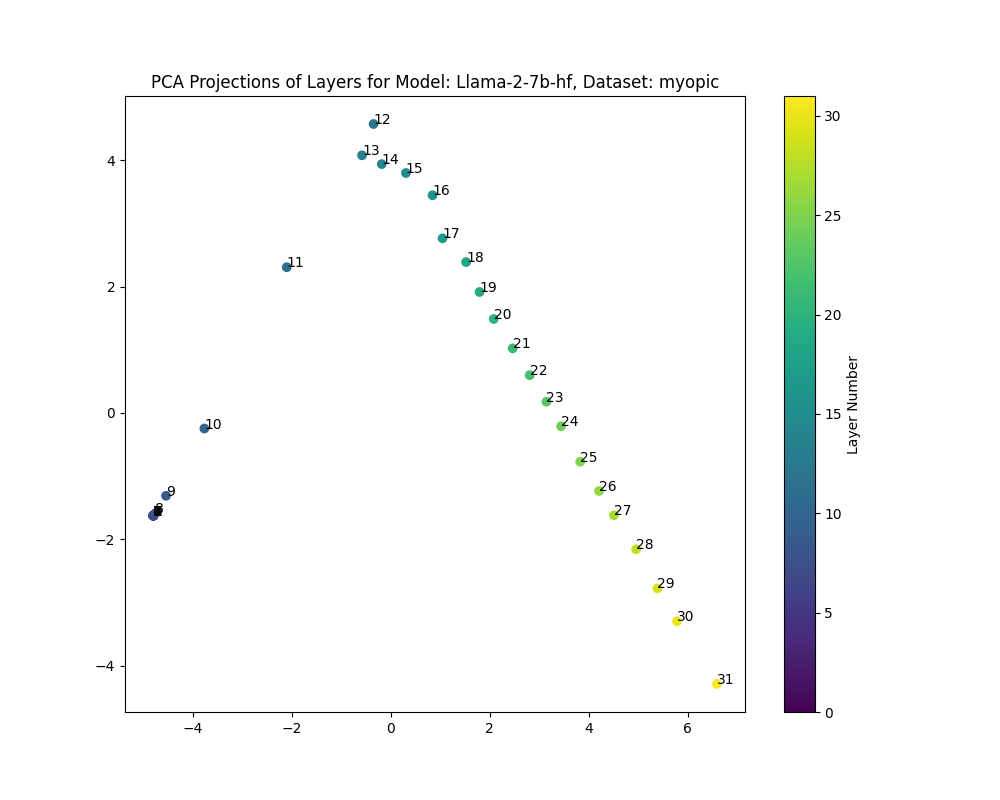
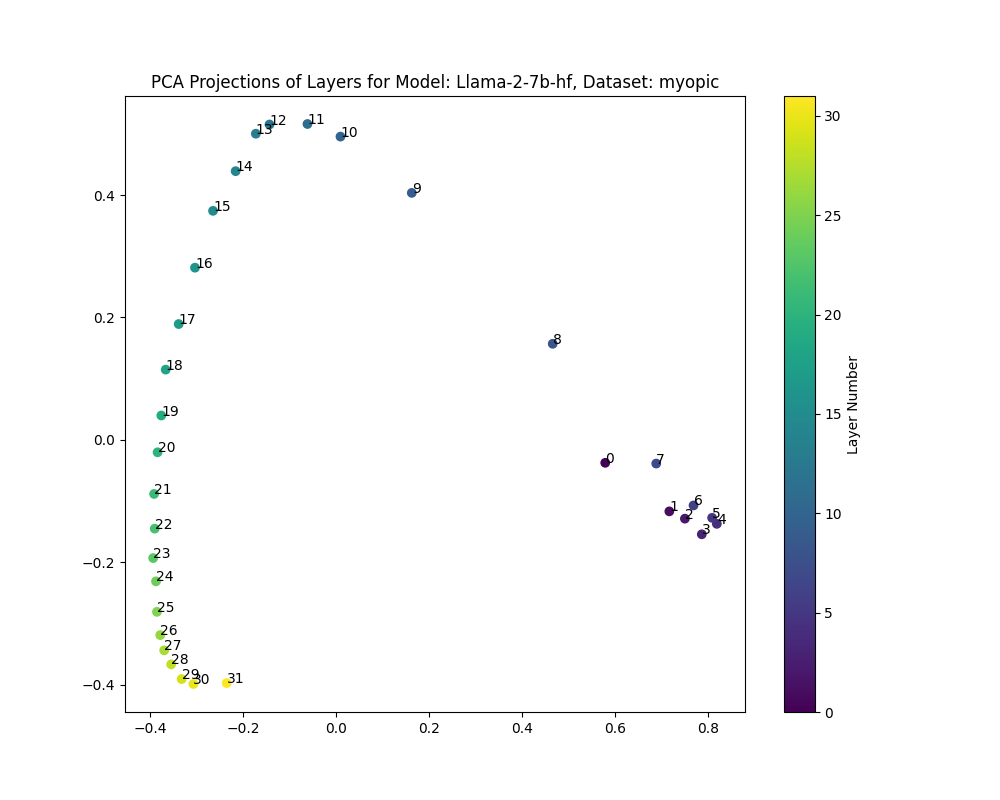
Normalize

diff --git a/analyze_vectors.py b/analyze_vectors.py
@@ -25,7 +25,8 @@ def load_vectors(directory, dataset_name):
             model_name = parts[-2]
             if model_name not in vectors:
                 vectors[model_name] = {}
-            vectors[model_name][layer] = torch.load(path)
+            v = torch.load(path)
+            vectors[model_name][layer] = v / torch.norm(v)
     return vectors
 
 def analyze_vectors(dataset_name):
@@ -67,7 +68,7 @@ def analyze_vectors(dataset_name):
     try:
         del vectors['Llama-2-13b-chat-hf']
     except KeyError:
-        pass
+        print("Llama-2-13b-chat-hf not in vectors")
 
     # Comparing vectors from the same layer but different models
     common_layers = sorted(list(set(next(iter(vectors.values())).keys())))  # Sorted common layers

diff --git a/analyze_all_vectors_behaviors.py b/analyze_all_vectors_behaviors.py
@@ -23,7 +23,8 @@ def load_vectors(directory):
                 vectors[model_name] = {}
             if layer not in vectors[model_name]:
                 vectors[model_name][layer] = {}
-            vectors[model_name][layer][dataset_name] = torch.load(path)
+            v = torch.load(path)
+            vectors[model_name][layer][dataset_name] = v / torch.norm(v)
     return vectors
 
 def analyze_vectors():
